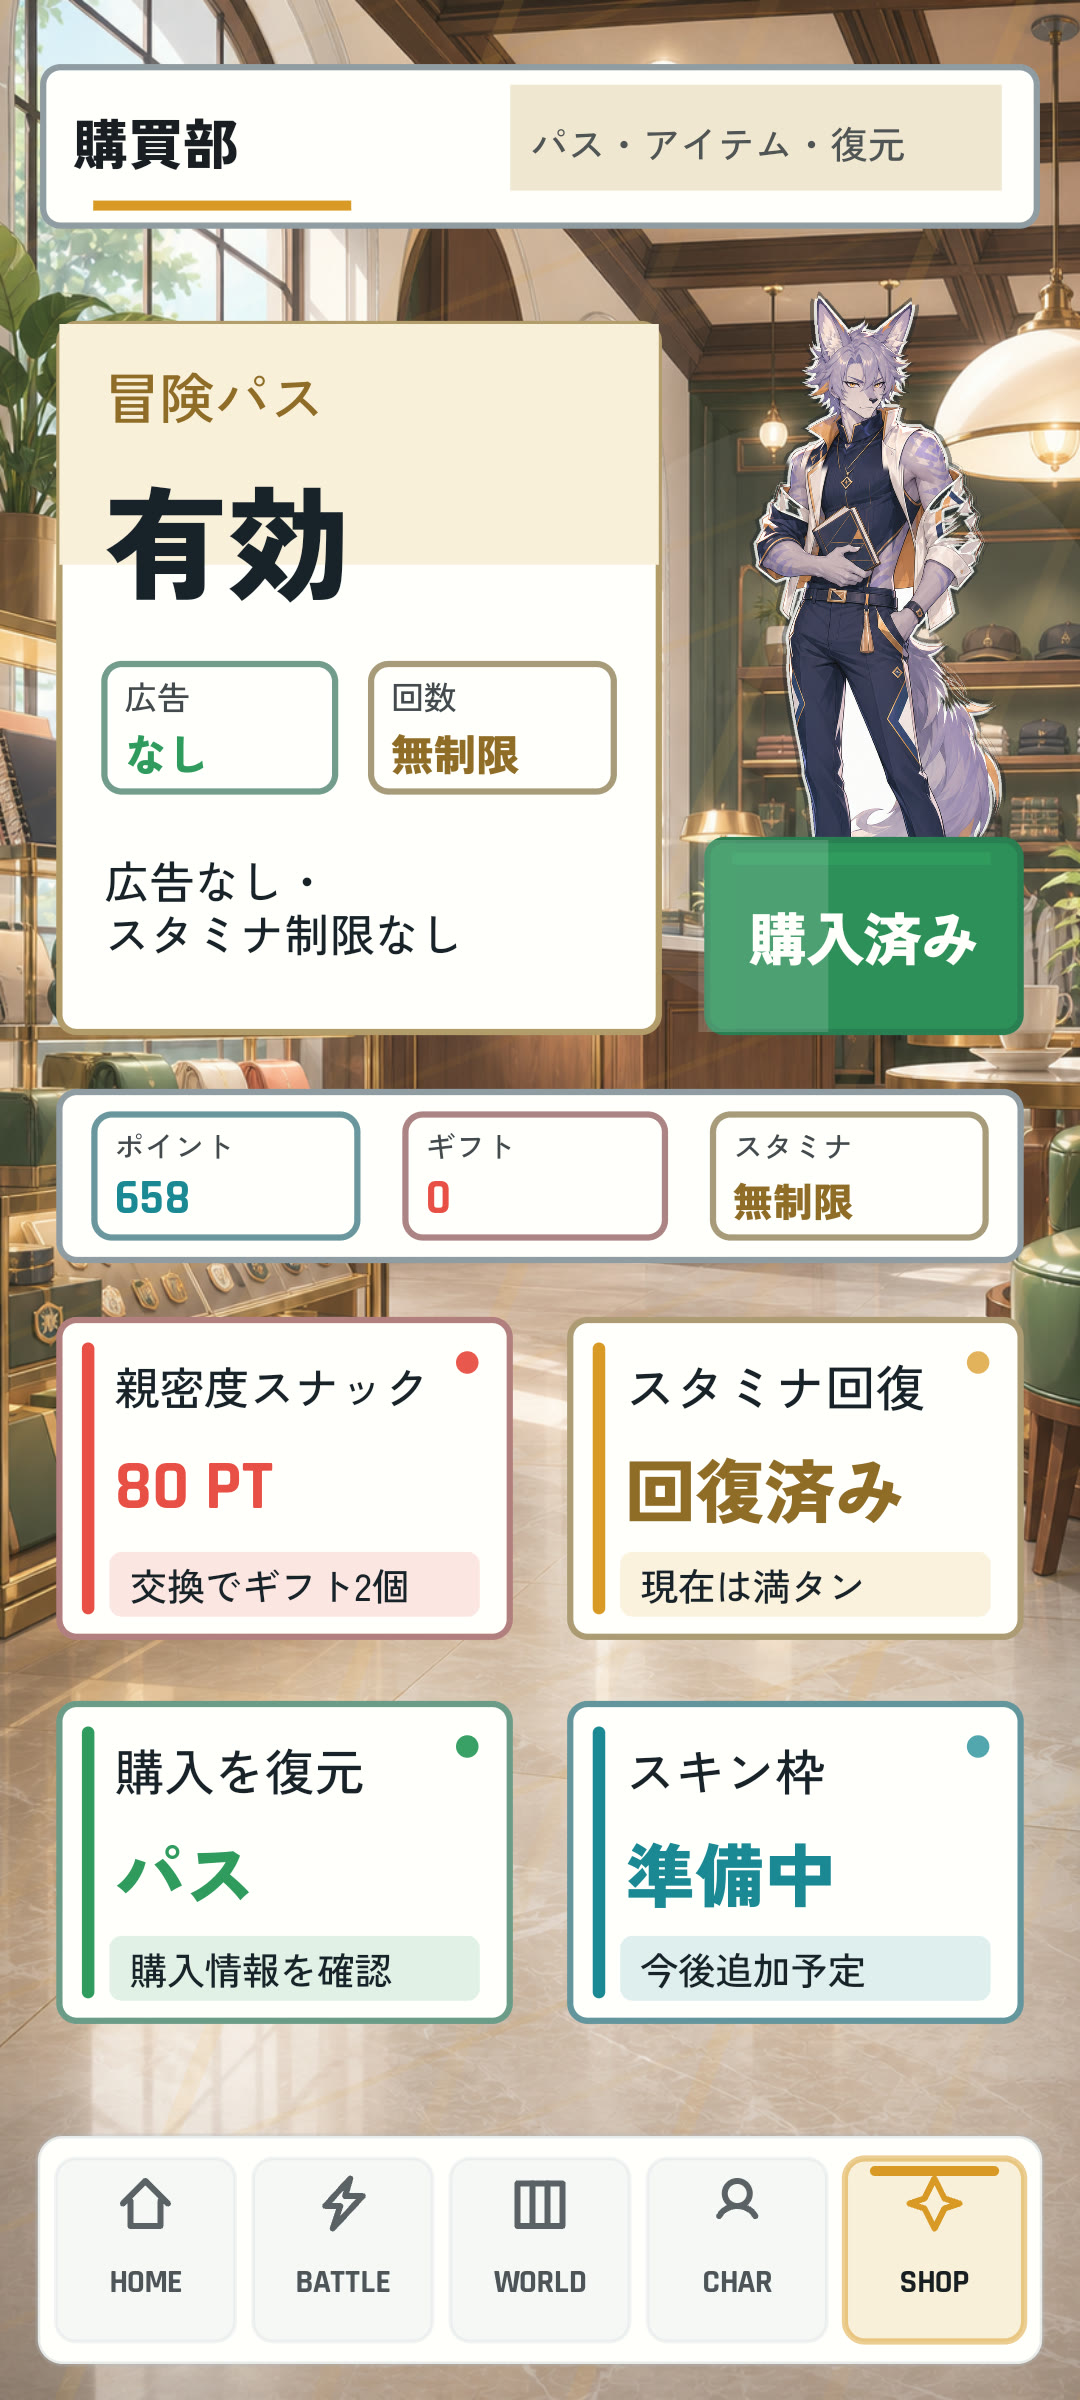
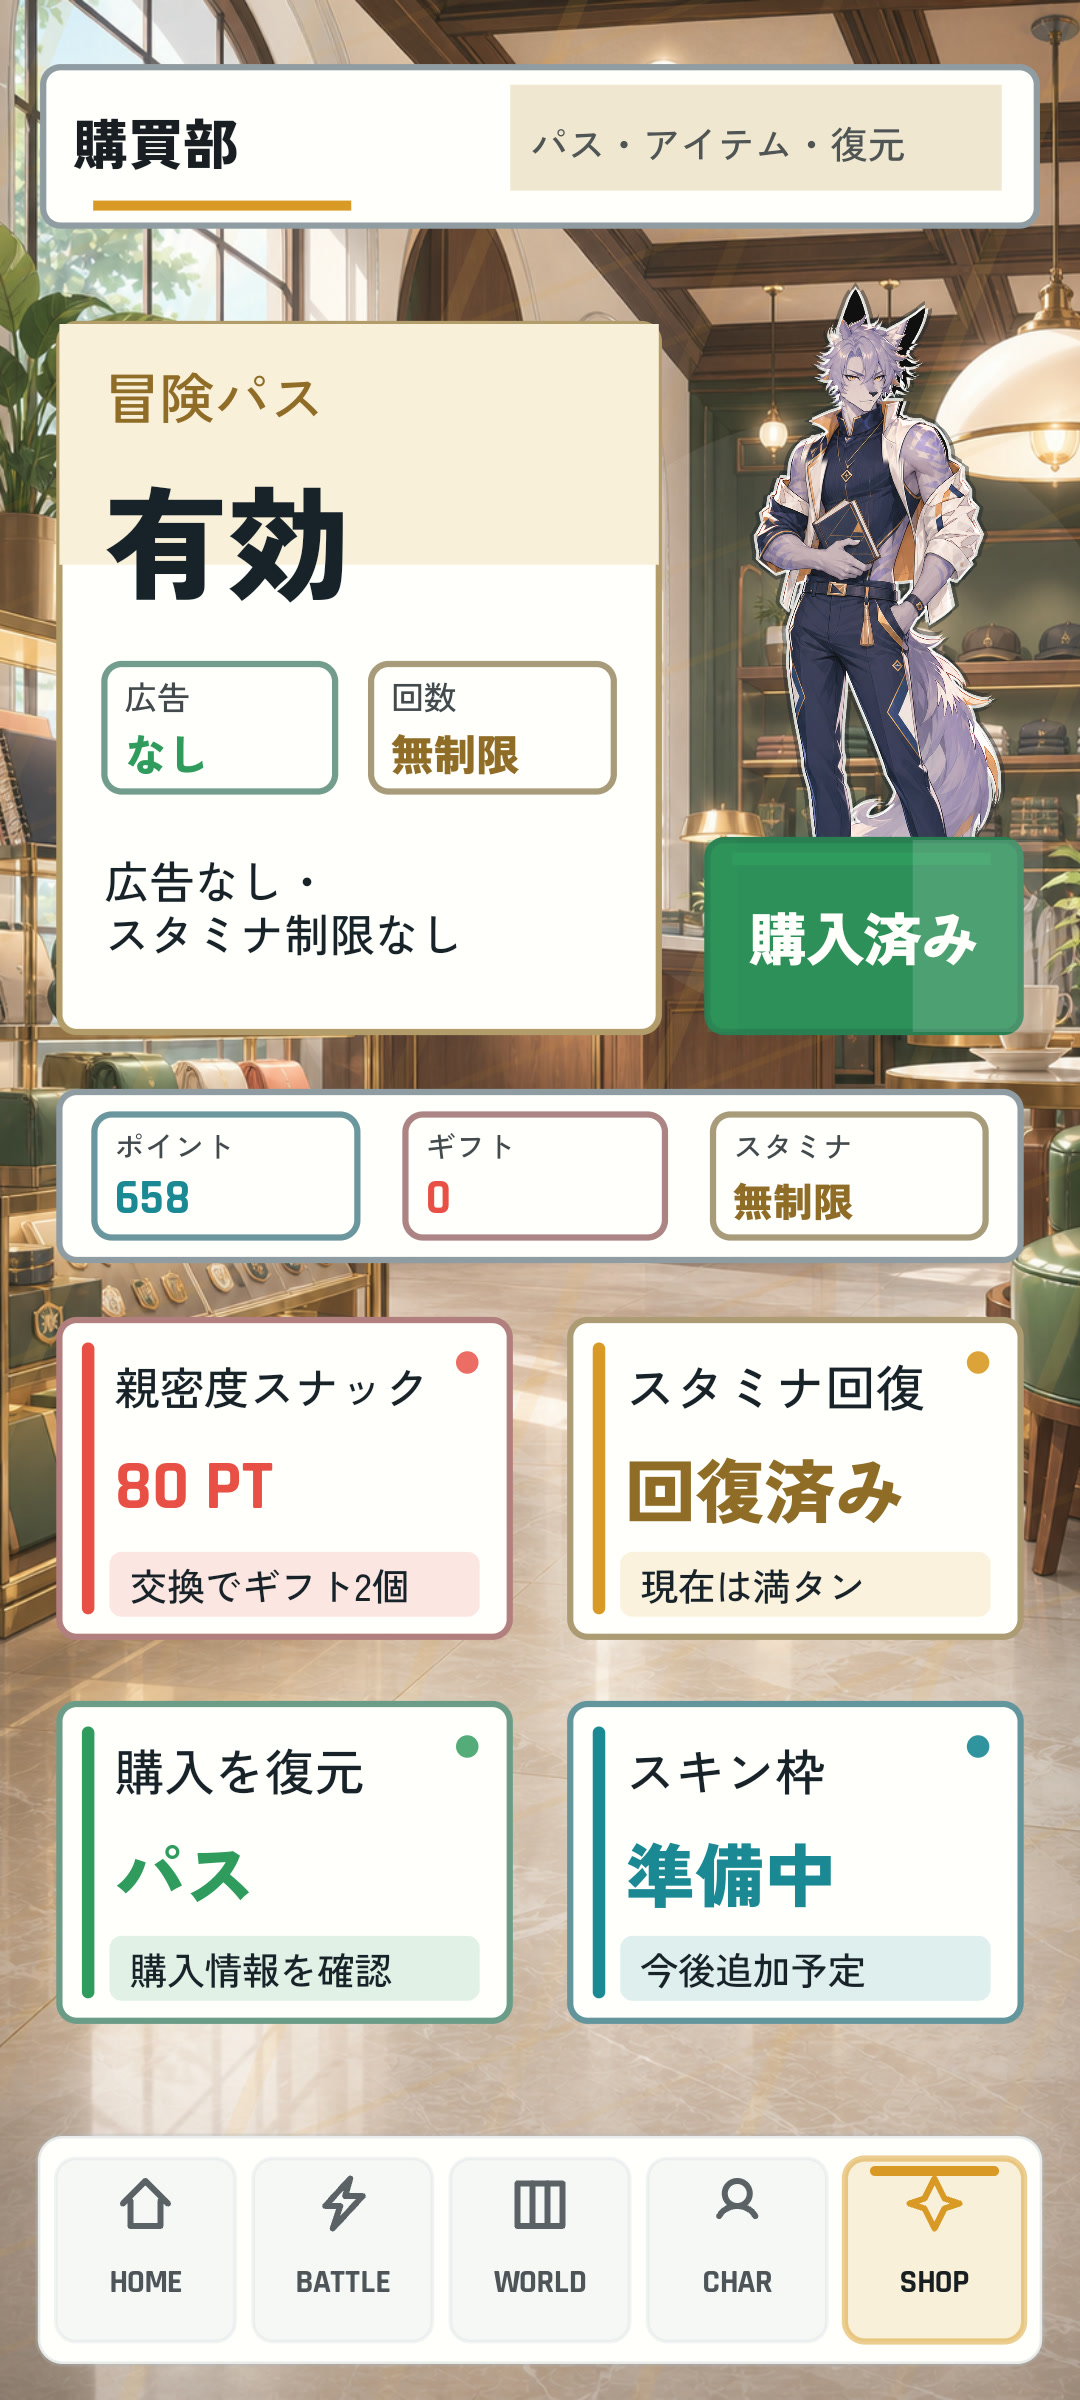
Publish Word-World preview v0.45 character cutout fix

diff --git a/index.html b/index.html
@@ -162,9 +162,9 @@
     <section class="hero">
       <div class="eyebrow">ANDROID UNFINISHED PREVIEW APK</div>
       <h1>Word-World<br>Preview</h1>
-      <p class="lead">英単語クイズRPG「Word-World」の未完成確認版です。v0.44では全画面の文字体系を再設計しました。和文はZen Kaku Gothic New、英字と数値はRajdhaniを組み込み、見出し・本文・数値でウェイトを分離。標準フォント、合成太字、白フチ、過剰なドロップシャドウを廃止しています。完成版ではありません。</p>
+      <p class="lead">英単語クイズRPG「Word-World」の未完成確認版です。v0.45では獣人キャラクターの切り抜きマスクを再作成。脚の間、尻尾周辺、腕と衣装の隙間を正しく透明化し、通常・集中・笑顔・基準立ち絵の4枚へ同じ精密マスクを適用しました。元の顔・服・表情の画素は保持しています。完成版ではありません。</p>
       <div class="stats">
-        <div class="stat"><b>0.44</b><span>CUSTOM TYPE SYSTEM</span></div>
+        <div class="stat"><b>0.45</b><span>CHARACTER CUTOUT FIX</span></div>
         <div class="stat"><b>35MB</b><span>APK</span></div>
         <div class="stat"><b>¥760</b><span>PASS</span></div>
       </div>
